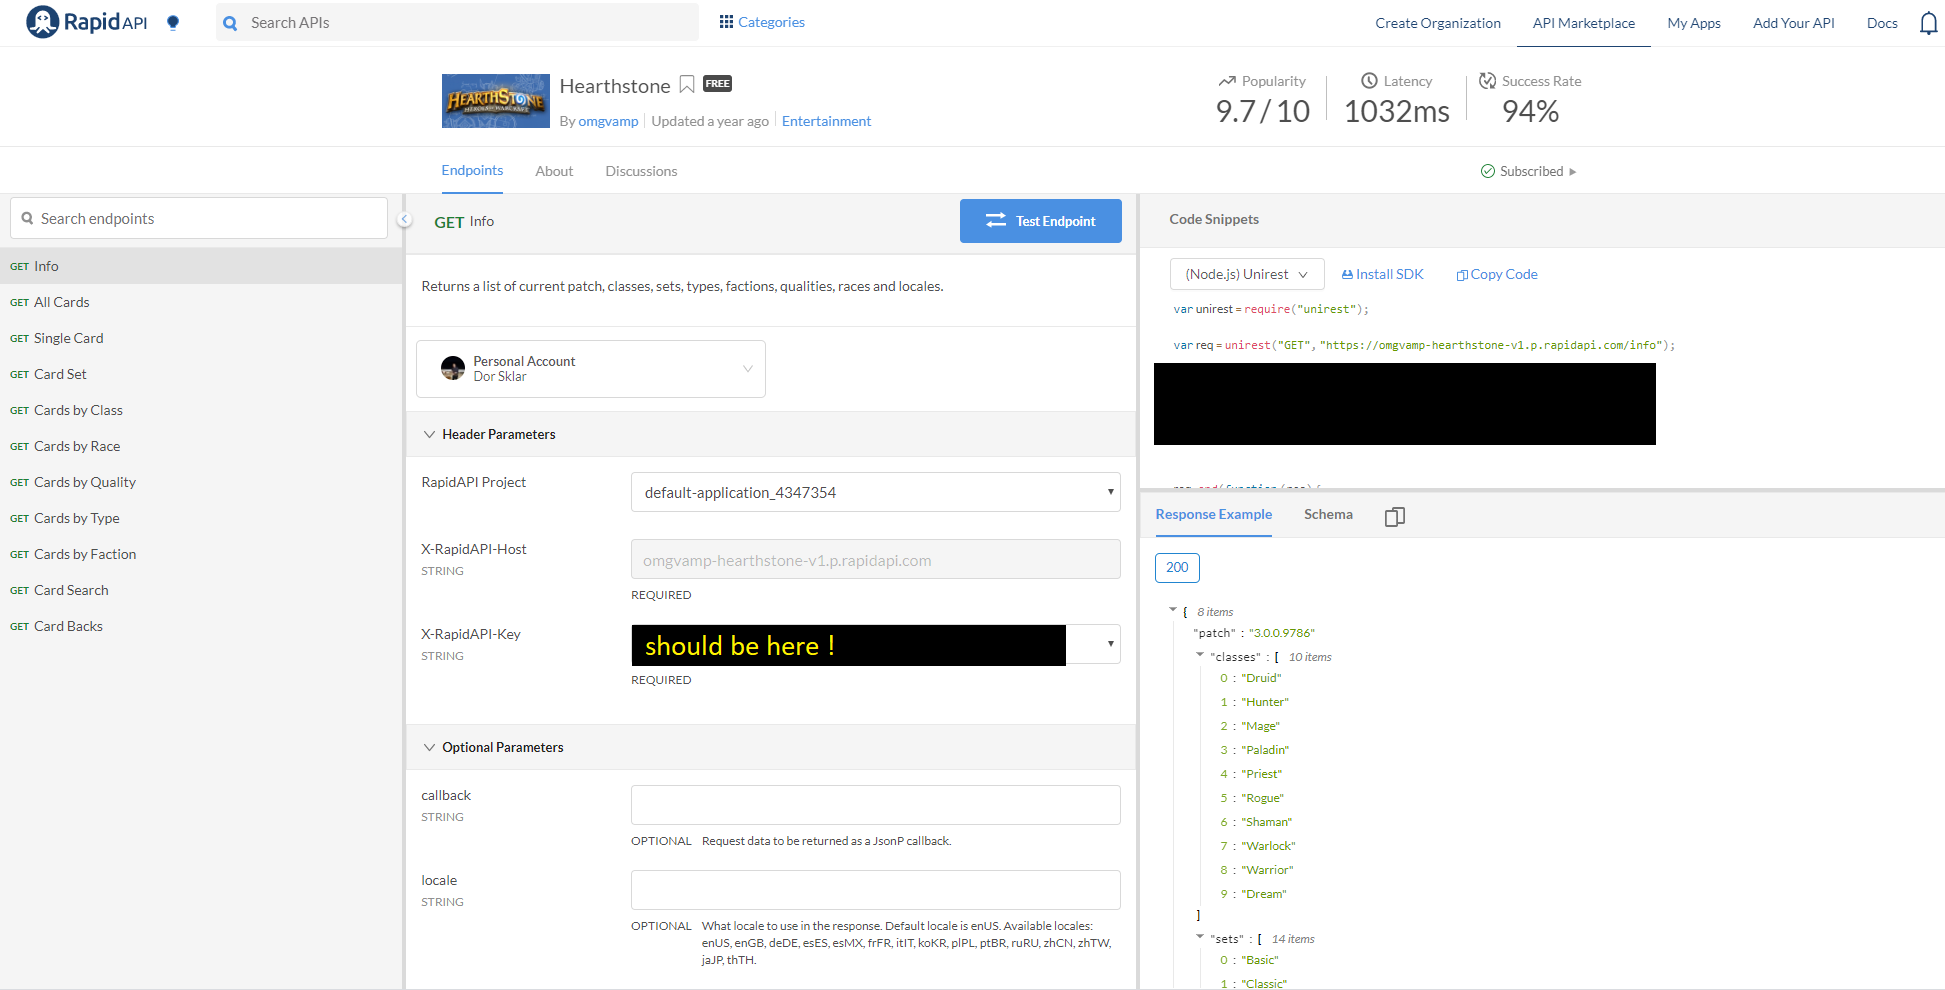
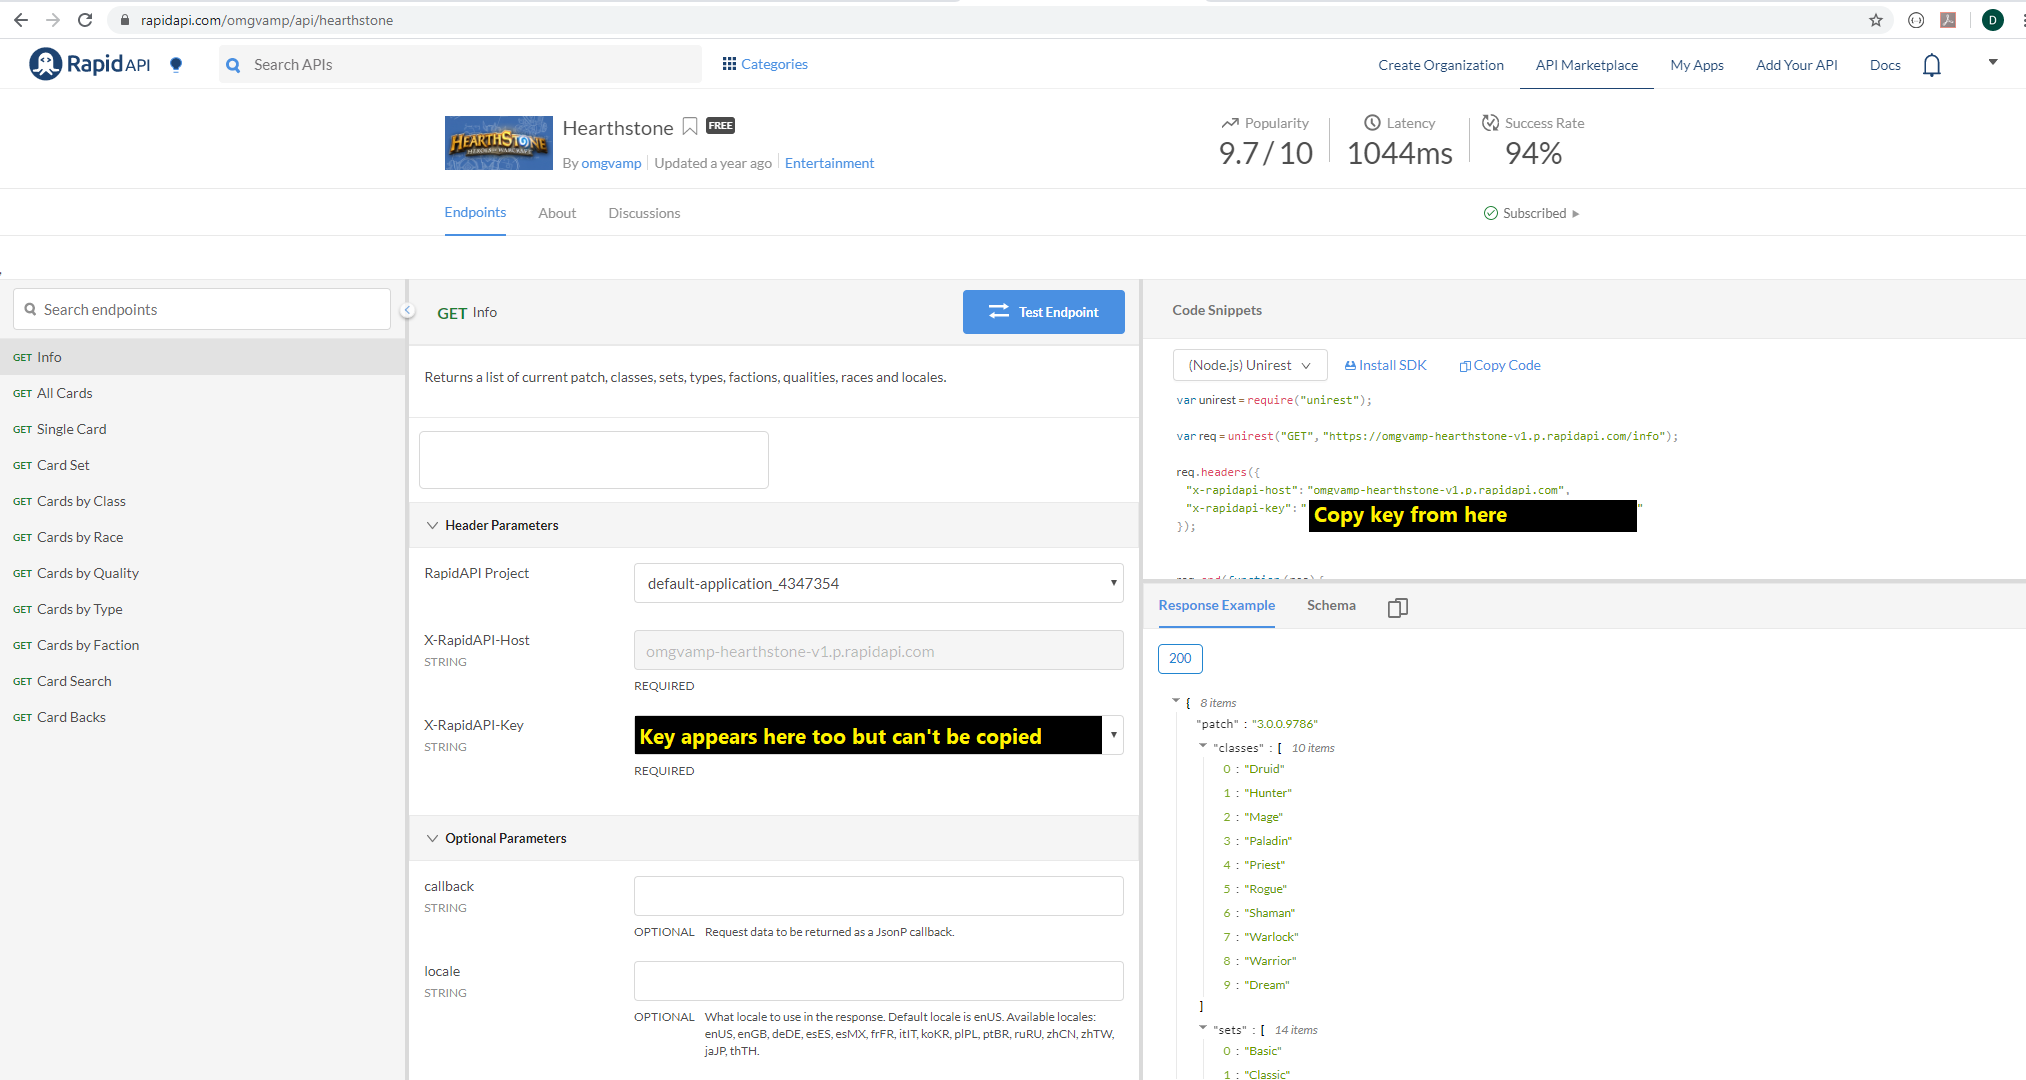
Updates: * README.md - minor fixes. * api1.png - updated.

diff --git a/README.md b/README.md
@@ -147,7 +147,7 @@ speed and connection conditions (for example when extracting an element that tak
         * After registering your API key should appear (see screenshot), copy it.
         ![image info](api1.png)
         * In the config.py file (The configuration file of the project) under the API section, you'll see a variable named HEADERS.
-        * In the highlighted line, replace the <INSET API KEY HERE> expression with the copied API key (quotation marks must stay).
+        * In the highlighted line, replace the < INSERT KEY HERE > expression with the copied API key (quotation marks must stay).
         ![image info](api2.png)
         
 2. Create a directory for the project. 
@@ -183,7 +183,7 @@ deactivate
         2. Argument '-q' - quiet mode - use it to suppress the opening of browser windows (Warning - makes the scraper slower).
     2. Database arguments:
         1. Argument '-l' - the hostname - default is set to 'localhost'.
-        2. Argument '-p' - the password - default is set to 'root'.
+        2. Argument '-p' - the password - required. 
         3. Argument '-d' - the database name - default is set to 'HS_Stats'.
         4. Argument '-o' - overwriting option - If you want to overwrite your existing table. 
         
